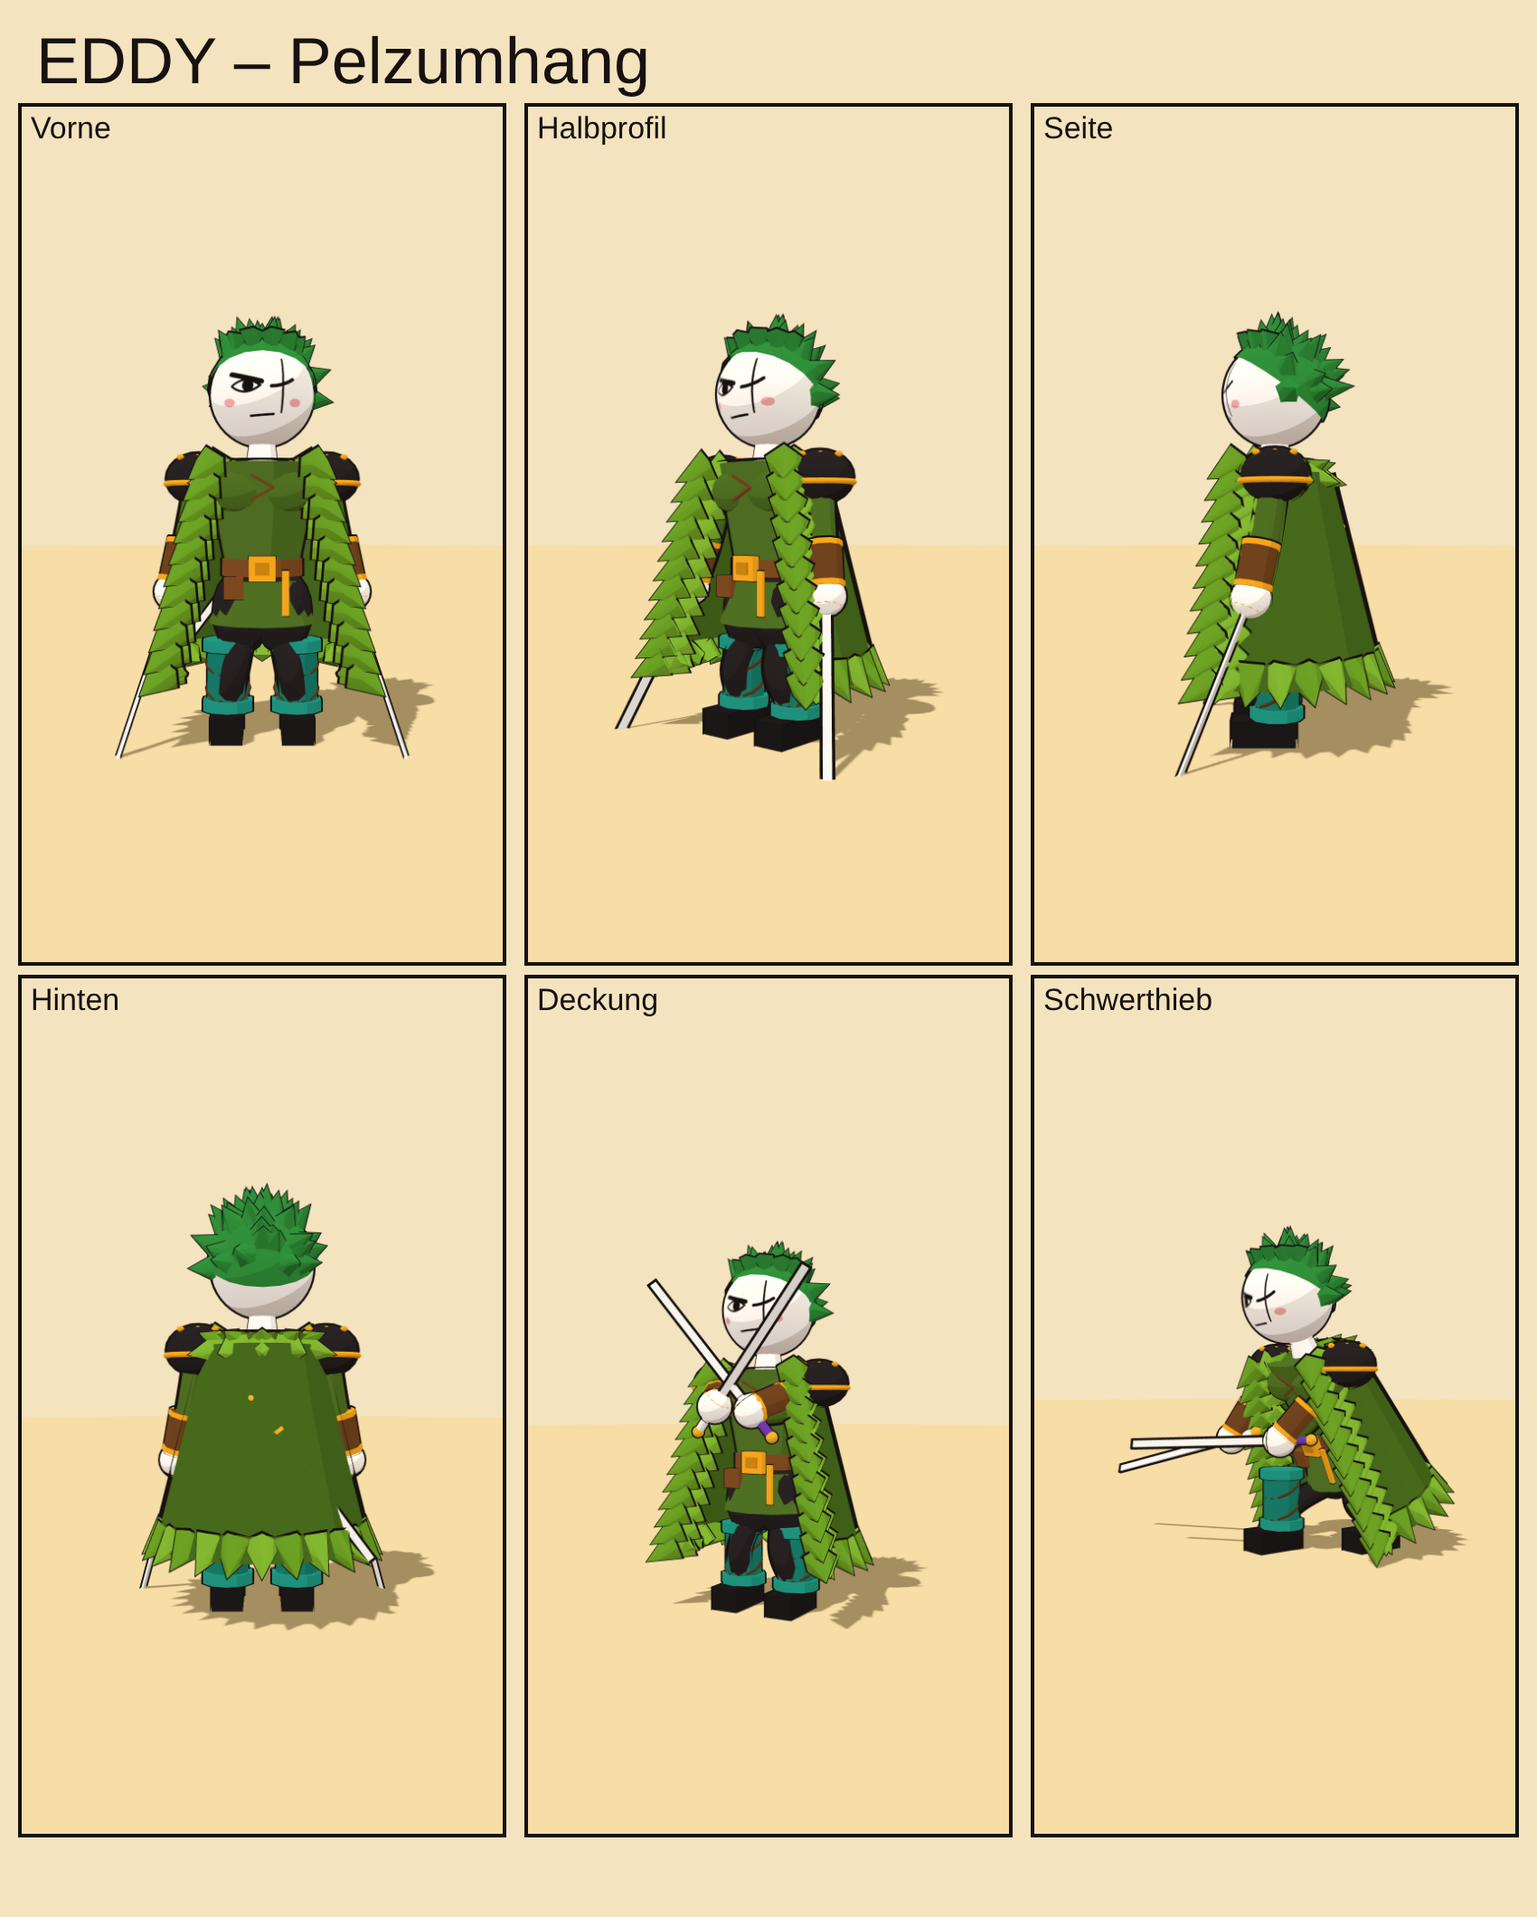
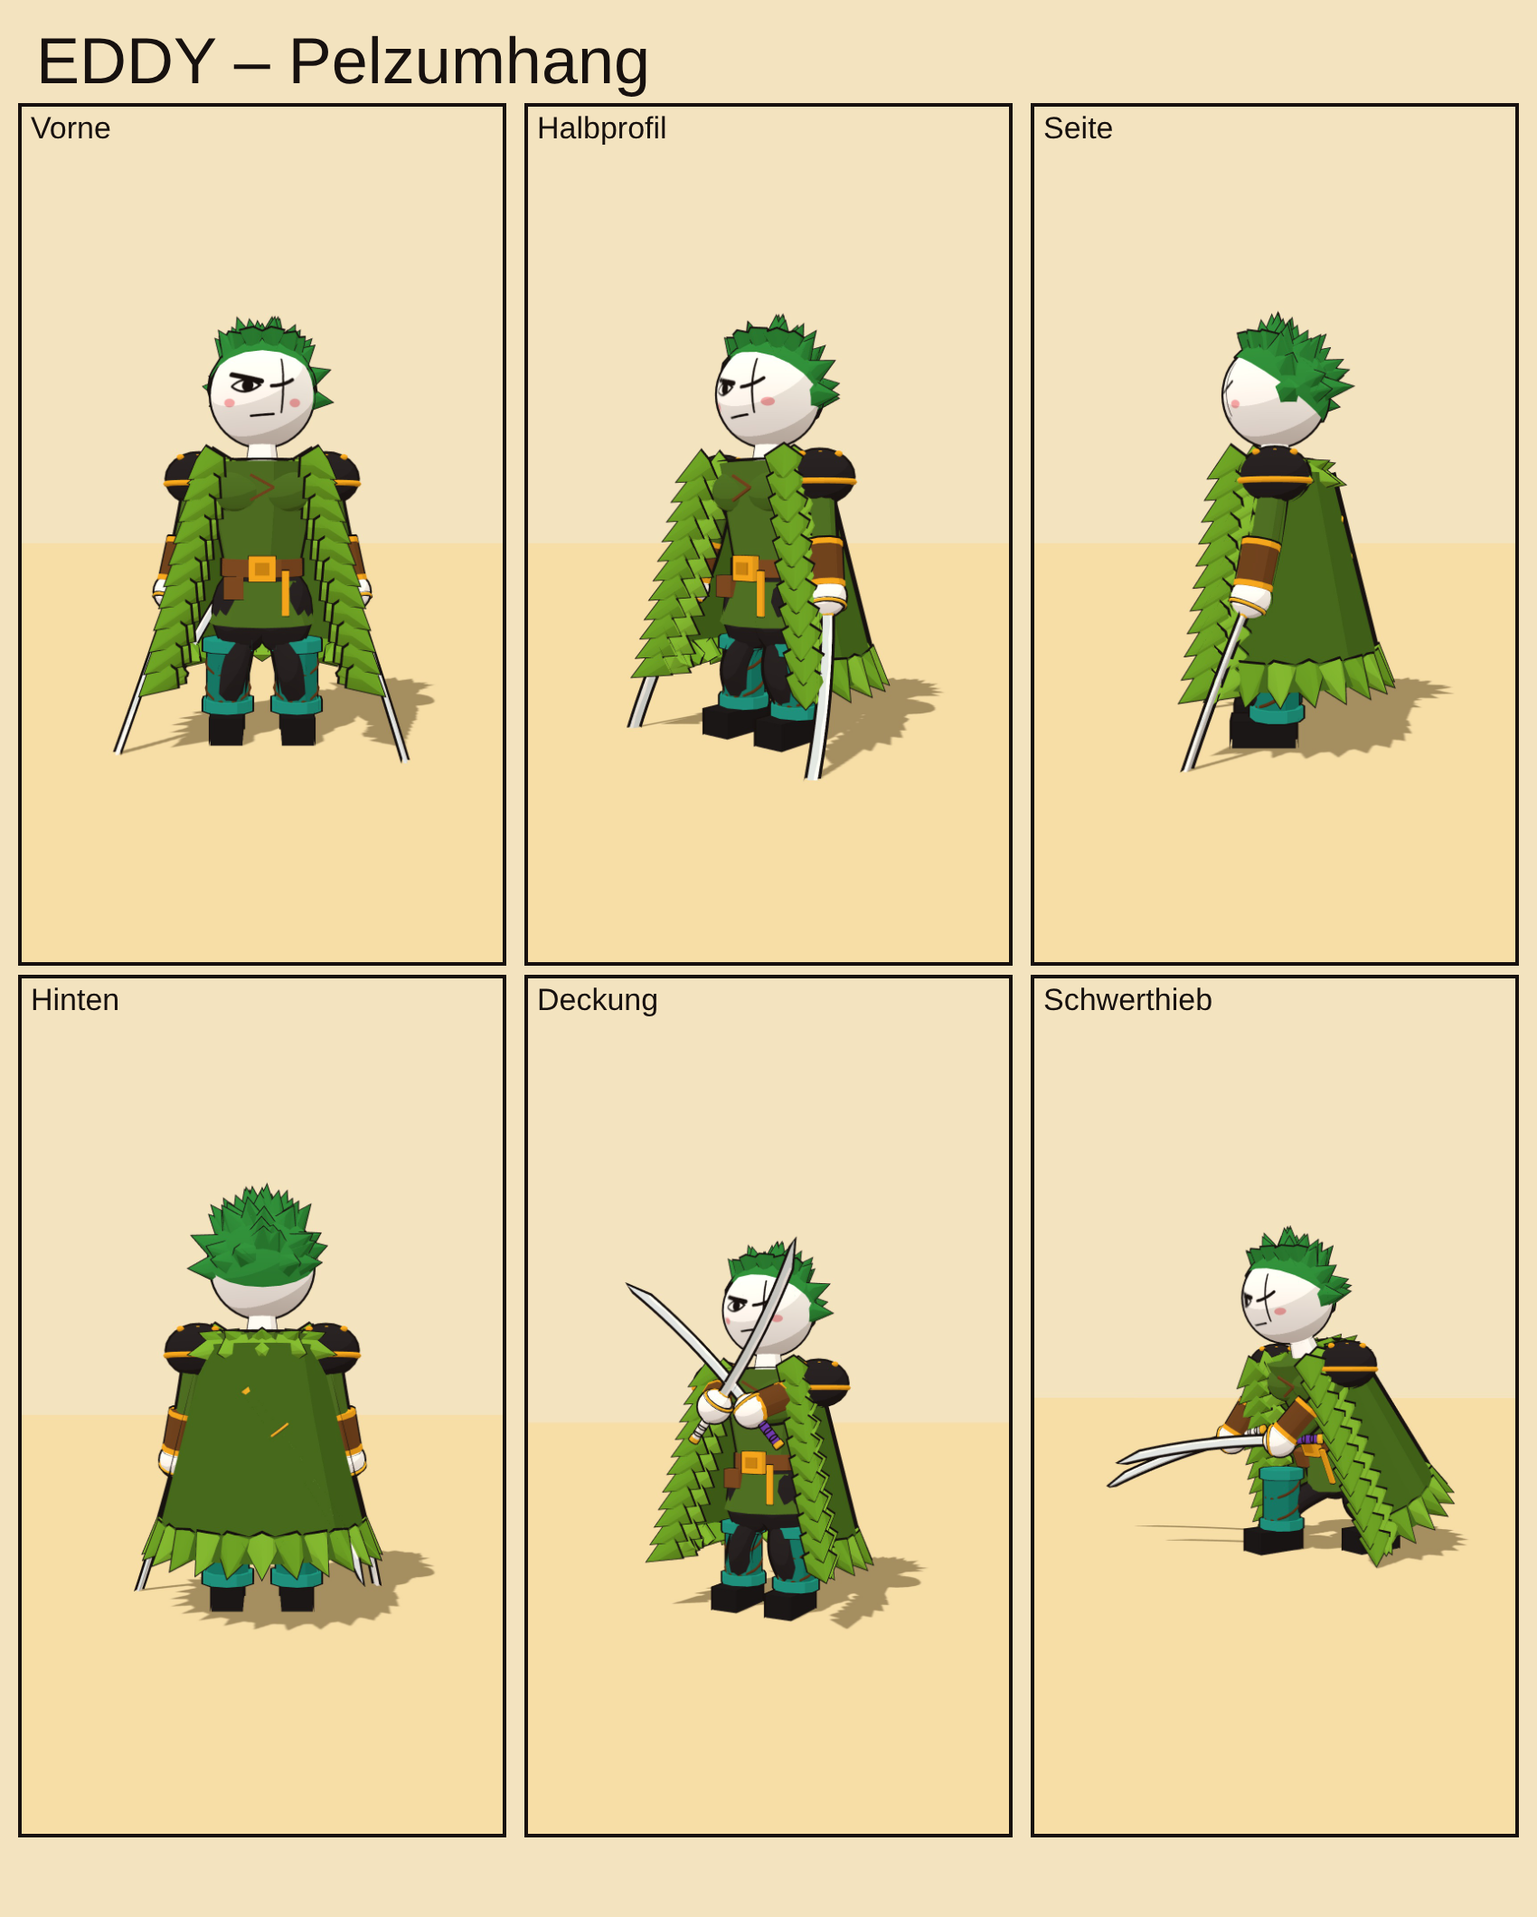
Katanas statt leuchtender Klingen; drei Eddys Rücken an Rücken, Angriff von links/rechts/hinten
Claude-Session: https://claude.ai/code/session_01DQ8sE5qjJSXyYLs98iSCEU

diff --git a/kampf-james-vs-eddy-3d/scene.js b/kampf-james-vs-eddy-3d/scene.js
@@ -42,9 +42,17 @@ function faceTex(kind){const c=document.createElement('canvas');c.width=1024;c.h
   x.lineWidth=8;x.beginPath();x.moveTo(cx-40,cy+92);x.lineTo(cx+40,cy+86);x.stroke();}
  x.fillStyle='rgba(244,151,157,.8)';for(const s of [-1,1]){x.beginPath();x.ellipse(cx+s*112,cy+48,22,13,0,0,7);x.fill();}
  const t=new THREE.CanvasTexture(c);t.colorSpace=THREE.SRGBColorSpace;return t;}
-function swordMesh(col){const g=new THREE.Group();add(g,new THREE.BoxGeometry(.09,2.0,.025),toon(0xf2f6f8),[0,1.12,0],{ol:.0});const o=new THREE.Mesh(new THREE.BoxGeometry(.15,2.06,.05),OUTM);o.position.y=1.12;g.add(o);
- add(g,new THREE.CylinderGeometry(.17,.17,.05,12),toon(0xf0b429),[0,.1,0],{ol:.12});add(g,new THREE.CylinderGeometry(.055,.055,.5,8),toon(col),[0,-.16,0],{ol:.25});add(g,new THREE.SphereGeometry(.075,8,8),toon(0xf0b429),[0,-.42,0],{ol:.2});
- const glow=new THREE.Mesh(new THREE.BoxGeometry(.3,2.2,.2),new THREE.MeshBasicMaterial({color:0x8dff78,transparent:true,opacity:0,depthWrite:false}));glow.position.y=1.12;g.add(glow);g.glow=glow;return g;}
+function swordMesh(col){const g=new THREE.Group();const L=2.15,cv=.24,bx=y=>-cv*(y/L)*(y/L);
+ const shp=p=>{const sh=new THREE.Shape();sh.moveTo(-.04-p,-p);for(let i=1;i<=12;i++){const y=L*.95*i/12;sh.lineTo(-.04-p+bx(y),y);}sh.lineTo(bx(L)-.03,L+p*1.5);for(let i=12;i>=0;i--){const y=L*.86*i/12;sh.lineTo(.06+p+bx(y),y);}sh.lineTo(.06+p,-p);sh.closePath();return sh;};
+ const geo=new THREE.ExtrudeGeometry(shp(0),{depth:.03,bevelEnabled:false});geo.translate(0,.16,-.015);add(g,geo,toon(0xdde6eb),[0,0,0],{ol:0});
+ const hg=new THREE.ExtrudeGeometry((()=>{const sh=new THREE.Shape();sh.moveTo(.03,0);for(let i=1;i<=12;i++){const y=L*.86*i/12;sh.lineTo(.03+bx(y)+.008*Math.sin(i*2.1),y);}for(let i=12;i>=0;i--){const y=L*.86*i/12;sh.lineTo(.06+bx(y),y);}sh.closePath();return sh;})(),{depth:.034,bevelEnabled:false});hg.translate(0,.16,-.017);add(g,hg,toon(0xffffff),[0,0,0],{ol:0});
+ const og=new THREE.ExtrudeGeometry(shp(.028),{depth:.075,bevelEnabled:false});og.translate(0,.16,-.0375);g.add(new THREE.Mesh(og,OUTM));
+ add(g,new THREE.CylinderGeometry(.065,.07,.09,8),toon(0xf0b429),[.01,.17,0],{s:[1,1,.6],ol:.15});
+ add(g,new THREE.CylinderGeometry(.19,.19,.04,18),toon(0x2b2627),[.01,.1,0],{ol:.1});add(g,new THREE.TorusGeometry(.19,.018,6,18),toon(0xf0b429),[.01,.1,0],{r:[Math.PI/2,0,0],ol:0});
+ add(g,new THREE.CylinderGeometry(.058,.052,.6,10),toon(col),[.01,-.22,0],{s:[1,1,.72],ol:.22});
+ const wrap=toon(col==0x262223?0xc8261f:0x17110f);for(let i=0;i<5;i++)for(const q of [-1,1])add(g,new THREE.TorusGeometry(.058,.011,5,12),wrap,[.01,-.44+i*.11,0],{r:[Math.PI/2+q*.55,0,0],s:[1,.74,1],ol:0});
+ add(g,new THREE.CylinderGeometry(.062,.062,.06,10),toon(0xf0b429),[.01,-.54,0],{s:[1,1,.72],ol:.2});
+ const glow=new THREE.Mesh(new THREE.BoxGeometry(.01,.01,.01),new THREE.MeshBasicMaterial({transparent:true,opacity:0}));glow.visible=false;g.add(glow);g.glow=glow;return g;}
 function mk(kind){const J=kind=='james';const g=new THREE.Group();scene.add(g);const b=new THREE.Group();g.add(b);
  const blk=toon(0x262223),gold=toon(0xf3a91e),brn=toon(0x7a4a22),skin=toon(0xffffff);
  const top=J?skin:toon(0x4d7024);
@@ -102,7 +110,7 @@ const sparks=[];for(let i=0;i<90;i++){const m=new THREE.Mesh(new THREE.BoxGeomet
 const balls=[];for(let i=0;i<6;i++){const m=new THREE.Mesh(new THREE.SphereGeometry(1,16,12),fxM(0xffffff));scene.add(m);balls.push(m);}
 const dusts=[];for(let i=0;i<40;i++){const m=new THREE.Mesh(new THREE.SphereGeometry(1,10,8),fxM(0xe9d2a6,.8));scene.add(m);dusts.push(m);}
 const rings=[];for(let i=0;i<3;i++){const m=new THREE.Mesh(new THREE.RingGeometry(.86,1,48),fxM(0xffffff));m.rotation.x=-Math.PI/2;scene.add(m);rings.push(m);}
-const arcs=[];for(let i=0;i<3;i++){const m=new THREE.Mesh(new THREE.TorusGeometry(1,.16,6,32,Math.PI*1.1),fxM(0x8dff78));m.scale.z=.15;scene.add(m);arcs.push(m);}
+const arcs=[];for(let i=0;i<3;i++){const m=new THREE.Mesh(new THREE.TorusGeometry(1,.09,6,32,Math.PI*1.1),fxM(0xf2f7fa));m.scale.z=.15;scene.add(m);arcs.push(m);}
 const aura=[new THREE.Mesh(new THREE.SphereGeometry(1.9,20,14),fxM(0xff5a3c,0)),new THREE.Mesh(new THREE.SphereGeometry(1.9,20,14),fxM(0x7dff6a,0))];aura.forEach(a=>scene.add(a));
 const pl=[new THREE.PointLight(0xff5a3c,0,12),new THREE.PointLight(0x7dff6a,0,12)];pl.forEach(p=>scene.add(p));
 let nS=0,nB=0,nD=0;const rnd=i=>{const x=Math.sin(i*127.1)*43758.5453;return x-Math.floor(x);};
@@ -194,7 +202,7 @@ function render2(t){reset();
 
 // ================= Großer Kampf (0–24 s): drei Schwerter, weiße Gummi-Form, Welt werfen, Riese, drei Eddys =================
 const LL=(a,b,u)=>a.clone().lerp(b,u);
-const spinR=[];for(let i=0;i<10;i++){const m=new THREE.Mesh(new THREE.TorusGeometry(1,.035,6,44),fxM(0x8dff78,.8));m.visible=false;scene.add(m);spinR.push(m);}let nR=0;
+const spinR=[];for(let i=0;i<10;i++){const m=new THREE.Mesh(new THREE.TorusGeometry(1,.035,6,44),fxM(0xffffff,.5));m.visible=false;scene.add(m);spinR.push(m);}let nR=0;
 function mkSlab(h){const g=new THREE.Group();const wm=toon(0xf6f3ec);add(g,new THREE.CylinderGeometry(4.2,3,1.3,12,1,false,h*Math.PI,Math.PI),wm,[0,0,0],{ol:.03});
  for(let i=0;i<3;i++){const a=h*Math.PI+.5+i*1.05,r=1.4+i*.8;add(g,new THREE.ConeGeometry(.7+.2*i,1.6+.5*i,5),wm,[Math.sin(a)*r,1.3+.25*i,Math.cos(a)*r],{ol:.07});}
  add(g,new THREE.DodecahedronGeometry(.5),wm,[Math.sin(h*Math.PI+1.5)*3,1,Math.cos(h*Math.PI+1.5)*3],{ol:.1});g.visible=false;scene.add(g);return g;}
@@ -215,8 +223,8 @@ function eddyDo(c,e,mode,t,o={}){const eh=(dx,dy,dz)=>side(c,e,0,dx,dy,dz);let h
  e.h=h;e.bend=[V(0,-.12,0),V(0,-.12,0)];pose(c,e);show(c,true);
  for(let i=0;i<2;i++){const s=c.sw[i];s.position.copy(h[i]);s.quaternion.setFromUnitVectors(V(0,1,0),d[i].clone().normalize().transformDirection(c.b.matrixWorld));s.glow.material.opacity=o.glow||0;}
  c.sw[2].visible=!!o.mouth;c.sw[2].glow.material.opacity=o.glow||0;if(c.back)c.back.visible=!o.mouth;c.hm.map=o.angry?EF.a:EF.n;
- if(mode=='spin')for(let i=0;i<2&&nR<spinR.length;i++){const m=spinR[nR++];m.visible=true;m.position.copy(h[i]);m.quaternion.copy(c.b.getWorldQuaternion(new THREE.Quaternion()));m.scale.set(2.1,2.1,1);m.material.opacity=.8;}
- if(mode=='whirl'&&nR<spinR.length){const m=spinR[nR++];m.visible=true;m.position.set(e.x,(e.y||0)+2.5,e.z||0);m.rotation.set(Math.PI/2,0,0);m.scale.set(3.6,3.6,1);m.material.opacity=.85;}}
+ if(mode=='spin')for(let i=0;i<2&&nR<spinR.length;i++){const m=spinR[nR++];m.visible=true;m.position.copy(h[i]);m.quaternion.copy(c.b.getWorldQuaternion(new THREE.Quaternion()));m.scale.set(2.25,2.25,1);m.material.opacity=.5;}
+ if(mode=='whirl'&&nR<spinR.length){const m=spinR[nR++];m.visible=true;m.position.set(e.x,(e.y||0)+2.5,e.z||0);m.rotation.set(Math.PI/2,0,0);m.scale.set(3.7,3.7,1);m.material.opacity=.55;}}
 function render3(t){reset();
  const w=ease(cl((t-5.0)/1.2)),w2=ease(cl((t-6.0)/1.2)),el=ease(cl((t-6.3)/1.0))*kf(t,[[0,1],[7.6,1],[8.4,.4],[24,.4]]);
  const S=kf(t,[[0,1],[13.5,1],[14.5,3.2],[16.3,3.2],[17.0,1],[24,1]]),jx=kf(t,[[0,-2.6],[2.95,-2.6],[3.3,-3.8],[13.5,-3.8],[14.5,-6],[16.3,-6],[17.0,0],[24,0]]);
@@ -248,14 +256,15 @@ function render3(t){reset();
   else if(t>=13.5&&t<16.2){mode=t>14.4?'over':'guard';e.nod=-.4;e.hip=1.95-.75*press;e.x+=.05*Math.sin(t*60)*press;}
   else if(t>=16.2){e.x+=.04*Math.sin(t*70);e.lean=.15;o.glow=.6*cl((t-16.2)/.5);}
   eddyDo(Ed,e,mode,t,o);
- }else{const R=kf(t,[[17.2,3.0],[18.4,4.7],[20.9,2.3],[21.25,2.0],[21.9,5.4],[24,5.4]]),base=kf(t,[[17.2,0],[18.5,0],[21.25,9.4],[21.9,10.2],[24,10.2]]),spread=ease(cl((t-17.2)/1.1));
-  eds.forEach((c,k)=>{if(k&&t>22.4){return;}const ang=base+k*2.094*spread,x=R*Math.cos(ang),z=R*Math.sin(ang);let mode='guard';const e={x,z,y:0,yaw:Math.atan2(-x,-z),lean:.1,hip:1.95,wide:.12};
-   if(t>=18.5&&t<21.25){mode='whirl';e.yaw+=t*17+k;e.lean=0;}else if(t>=21.9){mode='kneel';e.hip=1.3;e.lean=.3;}
-   eddyDo(c,e,mode,t,{mouth:true,angry:true,glow:t<21.3?.5:0});});
-  for(let k=1;k<3;k++){const a0=k*2.094*ease(cl((t-17.2)/1.1));puff(V(3*Math.cos(a0),0,3*Math.sin(a0)),17.2,t,5,1.6,k*31);if(t>22.3)puff(V(5.4*Math.cos(base+k*2.094),0,5.4*Math.sin(base+k*2.094)),22.35,t,8,1.6,k*53);}}
+ }else{const TG=[[2.5,0],[-2.5,0],[0,-2.6]],form=ease(cl((t-17.2)/.6)),go=ease(cl((t-18.6)/.9)),close=cl((t-19.5)/1.7),out=eo(cl((t-21.25)/.65));
+  eds.forEach((c,k)=>{if(k&&t>22.4)return;const th=k*2.094+.5,fx=3.0+.95*form*Math.cos(th),fz=.95*form*Math.sin(th),rr=(1-.3*close)*(1+1.2*out),tx=TG[k][0]*rr,tz=TG[k][1]*rr,x=fx+(tx-fx)*go,z=fz+(tz-fz)*go;
+   let mode='guard';const e={x,z,y:Math.sin(Math.PI*go)*(k?2.4:.6),yaw:go<.02?Math.atan2(Math.cos(th),Math.sin(th)):Math.atan2(-x,-z),lean:.1,hip:1.95,wide:.12};
+   if(t>=18.6&&t<21.25){mode='whirl';e.yaw+=t*17+k;e.lean=0;}else if(t>=21.9){mode='kneel';e.hip=1.3;e.lean=.3;}
+   eddyDo(c,e,mode,t,{mouth:true,angry:true});if(k){puff(V(3,0,0),17.2,t,5,1.6,k*31);if(t>22.3)puff(V(TG[k][0]*2.2,0,TG[k][1]*2.2),22.35,t,8,1.6,k*53);}});
+  if(t>=19.5&&t<21.2)for(let i=0;i<14;i++){const k=i%3;burst(V(TG[k][0]*.45,1.6+rnd(i)*1.8,TG[k][1]*.45+.3),19.6+i*.115,t,5,.9,i*19,i%2?0xffd23f:0xffffff,.2);}}
  const ex0=Ed.g.position.x;
  // ---------- Effekte ----------
- burst(V(2.6,3.9,.6),.8,t,8,1,3,0x8dff78,.25);burst(V(-2.2,2.5,.4),2.95,t,16,2.2,1,0xffd23f);
+ burst(V(2.6,3.9,.6),.8,t,8,1,3,0xffffff,.25);burst(V(-2.2,2.5,.4),2.95,t,16,2.2,1,0xffd23f);
  if(t>=2.8&&t<3.4){const u=(t-2.8)/.6,m=arcs[0];m.visible=true;m.position.set(ex0-.3,2.2,.3);m.rotation.set(0,0,2.2-u*1.2);m.scale.set(2.2+u,2.2+u,.4);m.material.opacity=1-u;}
  aura[0].position.set(jx,2.4,0);aura[0].material.color.set(0xffffff);aura[0].material.opacity=.35*Math.sin(Math.PI*cl((t-4.9)/1.8));aura[0].scale.setScalar(1+.5*w+.1*Math.sin(t*20));
  for(let k=0;k<4;k++)puff(V(jx,0,0),5.0+k*.35,t,7,2.6,k*17);for(let k=0;k<3;k++){const u=(t-6.1-k*.2)/1.1;if(u>0&&u<1){const m=rings[k];m.visible=true;m.position.set(jx,.08+k*.02,0);m.scale.setScalar(1+16*eo(u));m.material.opacity=1-u;}}
@@ -265,12 +274,12 @@ function render3(t){reset();
  burst(V(3,2.2,.5),15.45,t,36,7,7,0xffd23f,.55);burst(V(3,2.2,.5),15.5,t,24,5,99,0xffffff,.5);puff(V(3,0,0),15.45,t,18,7,90);
  for(let k=0;k<3;k++){const u=(t-15.45-k*.14)/.9;if(u>0&&u<1){const m=rings[k];m.visible=true;m.position.set(3,.08+k*.02,0);m.scale.setScalar(1+15*eo(u));m.material.opacity=1-u;}}
  if(angry&&t<18.6){const u=cl((t-16.2)/.5)*(1-cl((t-17.2)/.4));eds.forEach((c,k)=>{if(k&&!circ)return;if(k)return;});aura[1].position.set(ex0,2.4,Ed.g.position.z);aura[1].material.color.set(0x0b3d1a);aura[1].material.opacity=.28*u;aura[1].scale.setScalar(.8+.08*Math.sin(t*30));pl[1].position.set(ex0,2.5,1.5);pl[1].intensity=25*u;}
- burst(V(0,2.5,0),21.25,t,40,7,5,0x8dff78,.55);burst(V(0,2.5,0),21.3,t,30,6,55,0xffffff,.5);puff(V(0,0,0),21.3,t,18,7,33);
+ burst(V(0,2.5,0),21.25,t,40,7,5,0xffd23f,.55);burst(V(0,2.5,0),21.3,t,30,6,55,0xffffff,.5);puff(V(0,0,0),21.3,t,18,7,33);
  for(let k=0;k<3;k++){const u=(t-21.25-k*.14)/.9;if(u>0&&u<1){const m=rings[k];m.visible=true;m.position.set(0,.08+k*.02,0);m.scale.setScalar(1+16*eo(u));m.material.opacity=1-u;}}
  // ---------- Kamera ----------
- const cp=kf(t,[[0,[0,2.6,12.8]],[.8,[2.0,2.7,8.6]],[2.0,[2.0,2.7,8.6]],[2.9,[0,2.4,12.4]],[4.2,[-1,2.6,11.5]],[5.0,[-3.2,2.9,8.4]],[6.2,[-3.2,2.8,9.0]],[7.4,[0,3.2,15]],[8.8,[-.5,1.3,17]],[9.5,[-.5,1.6,17]],[10.1,[1.2,2.6,13.5]],[13.4,[2.6,3.2,14.5]],[14.6,[0,3,31]],[15.4,[0,3,31]],[15.8,[2,2,21]],[16.5,[3.4,2.7,7.6]],[17.1,[3.4,2.7,7.6]],[18.2,[0,13.5,13.5]],[21.2,[0,12,12]],[22,[0,4.2,15.5]],[24,[2.5,4.6,15]]]);
- const cq=kf(t,[[0,[0,2.4,0]],[.8,[2.5,2.8,0]],[2.0,[2.5,2.8,0]],[2.9,[-.5,2.3,0]],[4.2,[-2,2.6,0]],[5.0,[-3.6,3.0,0]],[6.2,[-3.6,2.9,0]],[7.4,[0,2.8,0]],[8.8,[-1.5,5.2,0]],[9.5,[-1,5.2,0]],[10.1,[1.5,3,0]],[13.4,[1.2,3,0]],[14.6,[-1.5,7,0]],[15.4,[-1,6,0]],[15.8,[0,4,0]],[16.5,[3.0,2.8,0]],[17.1,[3.0,2.8,0]],[18.2,[0,1.5,0]],[21.2,[0,1.5,0]],[22,[0,2.2,0]],[24,[0,2.2,0]]]);
- let sh=0;[[2.95,.35,.28],[7.6,1.0,.12],[9.97,.35,.25],[15.45,.8,.8],[21.25,.8,.7]].forEach(([t0,dd,a])=>{const u=(t-t0)/dd;if(u>=0&&u<1)sh=Math.max(sh,a*(1-u));});if(multi)sh=Math.max(sh,.06);if(t>18.5&&t<21.2)sh=Math.max(sh,.05);
+ const cp=kf(t,[[0,[0,2.6,12.8]],[.8,[2.0,2.7,8.6]],[2.0,[2.0,2.7,8.6]],[2.9,[0,2.4,12.4]],[4.2,[-1,2.6,11.5]],[5.0,[-3.2,2.9,8.4]],[6.2,[-3.2,2.8,9.0]],[7.4,[0,3.2,15]],[8.8,[-.5,1.3,17]],[9.5,[-.5,1.6,17]],[10.1,[1.2,2.6,13.5]],[13.4,[2.6,3.2,14.5]],[14.6,[0,3,31]],[15.4,[0,3,31]],[15.8,[2,2,21]],[16.5,[3.4,2.7,7.6]],[17.1,[3.4,2.7,7.6]],[17.7,[3.0,3.6,10]],[18.5,[3.0,3.6,10]],[19.5,[0,5,14.5]],[21.2,[0,4.6,13.5]],[22,[0,4.2,15.5]],[24,[2.5,4.6,15]]]);
+ const cq=kf(t,[[0,[0,2.4,0]],[.8,[2.5,2.8,0]],[2.0,[2.5,2.8,0]],[2.9,[-.5,2.3,0]],[4.2,[-2,2.6,0]],[5.0,[-3.6,3.0,0]],[6.2,[-3.6,2.9,0]],[7.4,[0,2.8,0]],[8.8,[-1.5,5.2,0]],[9.5,[-1,5.2,0]],[10.1,[1.5,3,0]],[13.4,[1.2,3,0]],[14.6,[-1.5,7,0]],[15.4,[-1,6,0]],[15.8,[0,4,0]],[16.5,[3.0,2.8,0]],[17.1,[3.0,2.8,0]],[17.7,[3.0,2.5,0]],[18.5,[3.0,2.5,0]],[19.5,[0,2.2,0]],[21.2,[0,2.2,0]],[22,[0,2.2,0]],[24,[0,2.2,0]]]);
+ let sh=0;[[2.95,.35,.28],[7.6,1.0,.12],[9.97,.35,.25],[15.45,.8,.8],[21.25,.8,.7]].forEach(([t0,dd,a])=>{const u=(t-t0)/dd;if(u>=0&&u<1)sh=Math.max(sh,a*(1-u));});if(multi)sh=Math.max(sh,.06);if(t>19.5&&t<21.2)sh=Math.max(sh,.05);
  camera.position.set(cp[0]+(rnd(t*61)-.5)*2*sh,cp[1]+(rnd(t*47)-.5)*2*sh,cp[2]);camera.lookAt(cq[0],cq[1],cq[2]);camera.rotation.z+=.04*el*Math.sin(t*4);renderer.render(scene,camera);
  const F=document.getElementById('flash');if(F){const fl=Math.max(t>=2.95?1-(t-2.95)/.12:0,t>=15.45?1-(t-15.45)/.3:0,t>=21.25?1-(t-21.25)/.4:0);F.style.opacity=cl(fl)*(t>15?1:.55);document.getElementById('title').style.opacity=cl(t/.25)*(1-cl((t-.6)/.25));const u=eo(cl((t-22.8)/.3)),en=document.getElementById('end');en.textContent='FORTSETZUNG FOLGT…';en.style.opacity=u;en.style.transform='translateX(-50%) rotate(-6deg) scale('+(2-u)+')';}
 }

diff --git a/kampf-james-vs-eddy-3d/storyboard-kampf.js b/kampf-james-vs-eddy-3d/storyboard-kampf.js
@@ -1,7 +1,7 @@
 // Storyboard (Standbilder) der Verwandlungs-Szene: node storyboard.js
 const fs=require('fs'),path=require('path');const {chromium}=require('playwright');
 const THREE_JS=process.env.THREE_JS||require.resolve('three/build/three.min.js');const OUT=path.join(__dirname,'../assets/charakter/skizzen');fs.mkdirSync(OUT,{recursive:true});
-const B=[[0.4,'1 · Die beiden stehen sich gegenüber'],[1.5,'2 · Eddy nimmt das dritte Schwert in den Mund und lässt die Klingen kreisen'],[2.93,'3 · Eddy stürmt wirbelnd vor und trifft'],[5.7,'4 · James lacht und wird komplett weiß'],[7.1,'5 · Die Welt wird weiß und elastisch'],[8.9,'6 · James hebt die Welt hoch'],[9.99,'7 · Er wirft sie – Eddy schneidet sie entzwei'],[12.05,'8 · Gummi-Fäuste von oben, unten, überall'],[15.1,'9 · James macht sich riesig'],[15.5,'10 · Die Riesenfaust kracht herunter'],[16.9,'11 · Eddy rastet aus'],[18.3,'12 · Drei Eddys kreisen James ein'],[20.2,'13 · Sie greifen wirbelnd an'],[21.27,'14 · Zusammenprall'],[23.4,'15 · Ende offen']];
+const B=[[0.4,'1 · Die beiden stehen sich gegenüber'],[1.5,'2 · Eddy nimmt das dritte Schwert in den Mund und lässt die Klingen kreisen'],[2.93,'3 · Eddy stürmt wirbelnd vor und trifft'],[5.7,'4 · James lacht und wird komplett weiß'],[7.1,'5 · Die Welt wird weiß und elastisch'],[8.9,'6 · James hebt die Welt hoch'],[9.99,'7 · Er wirft sie – Eddy schneidet sie entzwei'],[12.05,'8 · Gummi-Fäuste von oben, unten, überall'],[15.1,'9 · James macht sich riesig'],[15.5,'10 · Die Riesenfaust kracht herunter'],[16.9,'11 · Eddy rastet aus'],[18.3,'12 · Drei Eddys stehen Rücken an Rücken'],[20.2,'13 · Wirbelangriff von rechts, links und hinten'],[21.27,'14 · Zusammenprall'],[23.4,'15 · Ende offen']];
 (async()=>{const b=await chromium.launch({args:['--use-angle=swiftshader','--enable-unsafe-swiftshader','--ignore-gpu-blocklist','--enable-webgl']});
 const p=await b.newPage({viewport:{width:1080,height:1920}});p.on('pageerror',e=>console.log('PAGEERR',e.message));
 await p.setContent('<body style="margin:0;overflow:hidden"><div id="gl"></div></body>');await p.addScriptTag({path:THREE_JS});await p.addScriptTag({path:path.join(__dirname,'scene.js')});
